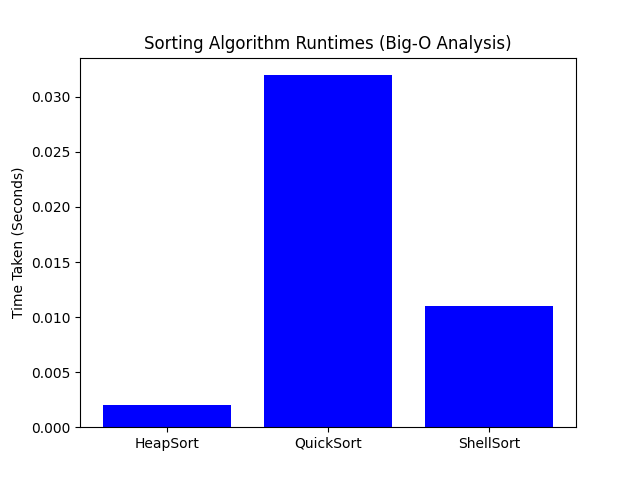
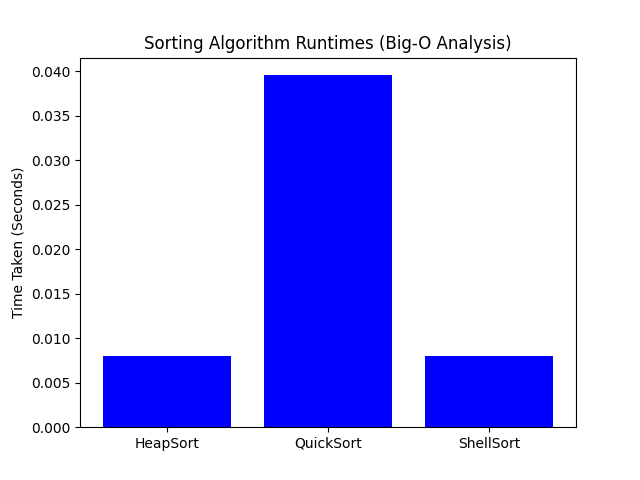
misc changes

diff --git a/final_assignment/Utilities/SortingUtil.py b/final_assignment/Utilities/SortingUtil.py
@@ -64,7 +64,7 @@ def heapify(dataFrame, size, index):
     left_heap = 2 * index + 1     
     right_heap = 2 * index + 2     
 
-    if left_heap < size and dataFrame[index] < dataFrame[index]:
+    if left_heap < size and dataFrame[index] < dataFrame[left_heap]:
 
         largest = left_heap
 
